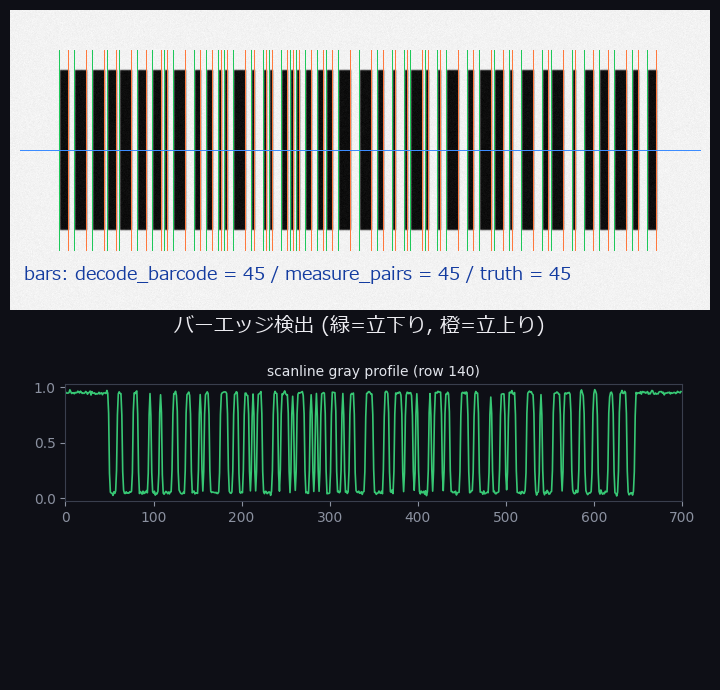
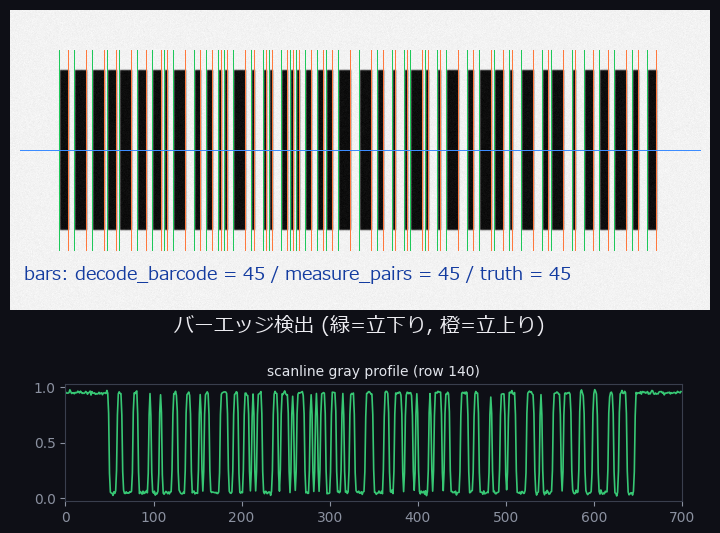
auto: gen_industrial_gallery.py 編集前 (2026-08-30 16:36)

diff --git a/tools/gen_industrial_gallery.py b/tools/gen_industrial_gallery.py
@@ -588,6 +588,10 @@ def subject_barcode(log=print) -> dict:
     out = _montage([_np_of(vis), profimg],
                    ["バーエッジ検出 (緑=立下り, 橙=立上り)", None], ncols=1,
                    label_h=30)
+    # 高さ違いのセルで生じる末尾の無地帯を刈る
+    bgc = np.array([14, 15, 22]) / 255.0
+    nonbg = np.where(np.abs(out - bgc).sum(axis=2).max(axis=1) > 0.02)[0]
+    out = out[: nonbg[-1] + 12]
     _save_png(out, "industrial_barcode.png")
     _save_thumb("industrial_barcode.png")
     return {

diff --git a/docs/SESSION_SUMMARY.md b/docs/SESSION_SUMMARY.md
@@ -3,49 +3,49 @@
 > 自動生成: `libexec/raptor-auto-summary` (Stop hook)
 > 次回 ccr 起動時に CLAUDE.md SESSION START で自動的に読み取られる。
 
-- **最終更新**: 2026-08-30 16:32:48
+- **最終更新**: 2026-08-30 16:36:30
 - **プロジェクト**: `C:/dev/projects/imgevolve`
 - **ブランチ**: `master`
 
 ## 直近の git log
 
 ```
-0f46170b auto: fullseye_overview_qiita_ja.md 編集前 (2026-08-30 16:32)
-e7592238 auto: gen_industrial_gallery.py 編集前 (2026-08-30 16:32)
-2ff8ec70 auto: gen_science_gallery.py 編集前 (2026-08-30 16:32)
-f8c62a21 auto: fullseye_overview_qiita_ja.md 編集前 (2026-08-30 16:32)
-d5def783 auto: gen_industrial_gallery.py 編集前 (2026-08-30 16:32)
-0c70d501 auto: fullseye_overview_qiita_ja.md 編集前 (2026-08-30 16:32)
-6aee3eae auto: gen_science_gallery.py 編集前 (2026-08-30 16:32)
-bf8dd79f auto: fullseye_overview_qiita_ja.md 編集前 (2026-08-30 16:31)
-45e6af98 auto: gen_industrial_gallery.py 編集前 (2026-08-30 16:31)
-eac0dc19 auto: gen_industrial_gallery.py 編集前 (2026-08-30 16:31)
+c056cc09 auto: gen_industrial_gallery.py 編集前 (2026-08-30 16:36)
+119c8346 auto: gen_industrial_gallery.py 編集前 (2026-08-30 16:35)
+cac4ad42 auto: gen_industrial_gallery.py 編集前 (2026-08-30 16:35)
+1c31bf1c auto: gen_science_gallery.py 編集前 (2026-08-30 16:35)
+ad3c6589 auto: fullseye_overview_qiita_ja.md 編集前 (2026-08-30 16:34)
+493257fa auto: fullseye_overview_qiita_ja.md 編集前 (2026-08-30 16:34)
+a02eb8d2 auto: gen_industrial_gallery.py 編集前 (2026-08-30 16:34)
+3dfe569e auto: gen_science_gallery.py 編集前 (2026-08-30 16:34)
+1547b794 auto: gen_science_gallery.py 編集前 (2026-08-30 16:34)
+4e1fecbc auto: fullseye_overview_qiita_ja.md 編集前 (2026-08-30 16:33)
 ```
 
 ## 現在の git status
 
 ```
-M docs/articles/fullseye_overview_qiita_ja.md
+M tools/gen_industrial_gallery.py
 ```
 
 ## 直近 2 時間に変更されたファイル
 
 ```
-16:32 docs/articles/fullseye_overview_qiita_ja.md
-16:32 tools/gen_industrial_gallery.py
-16:32 docs/articles/assets/science_dino_xray_thumb.jpg
-16:32 docs/articles/assets/science_dino_xray.png
-16:32 docs/articles/assets/science_alife_worlds_thumb.jpg
-16:32 docs/articles/assets/science_alife_worlds.png
-16:32 docs/articles/assets/science_edge_compass_thumb.jpg
-16:32 docs/articles/assets/science_edge_compass.png
-16:32 docs/articles/assets/science_watershed_foam_thumb.jpg
-16:32 docs/articles/assets/science_watershed_foam.png
-16:32 docs/articles/assets/science_fourier_stars_thumb.jpg
-16:32 docs/articles/assets/science_fourier_stars.png
-16:32 docs/articles/assets/science_distance_ripple_thumb.jpg
-16:32 docs/articles/assets/science_distance_ripple.png
-16:32 docs/KNOWN_ISSUES.md
+16:36 tools/gen_industrial_gallery.py
+16:36 docs/articles/assets/industrial_blobs_thumb.jpg
+16:36 docs/articles/assets/_industrial_snippet.md
+16:36 docs/articles/assets/_industrial_gallery_meta.json
+16:36 docs/articles/assets/industrial_blobs.png
+16:35 docs/articles/assets/_science_gallery_snippet.md
+16:35 docs/articles/assets/_science_gallery_meta.json
+16:35 docs/articles/assets/science_distance_ripple_thumb.jpg
+16:35 docs/articles/assets/science_distance_ripple.png
+16:35 tools/gen_science_gallery.py
+16:34 docs/articles/assets/science_dino_skeleton_thumb.jpg
+16:34 docs/articles/assets/science_dino_skeleton.png
+16:34 docs/articles/assets/science_wobble_warp_thumb.jpg
+16:34 docs/articles/assets/science_wobble_warp.png
+16:34 docs/articles/assets/science_morph_pulse.gif
 ```
 
 ---
